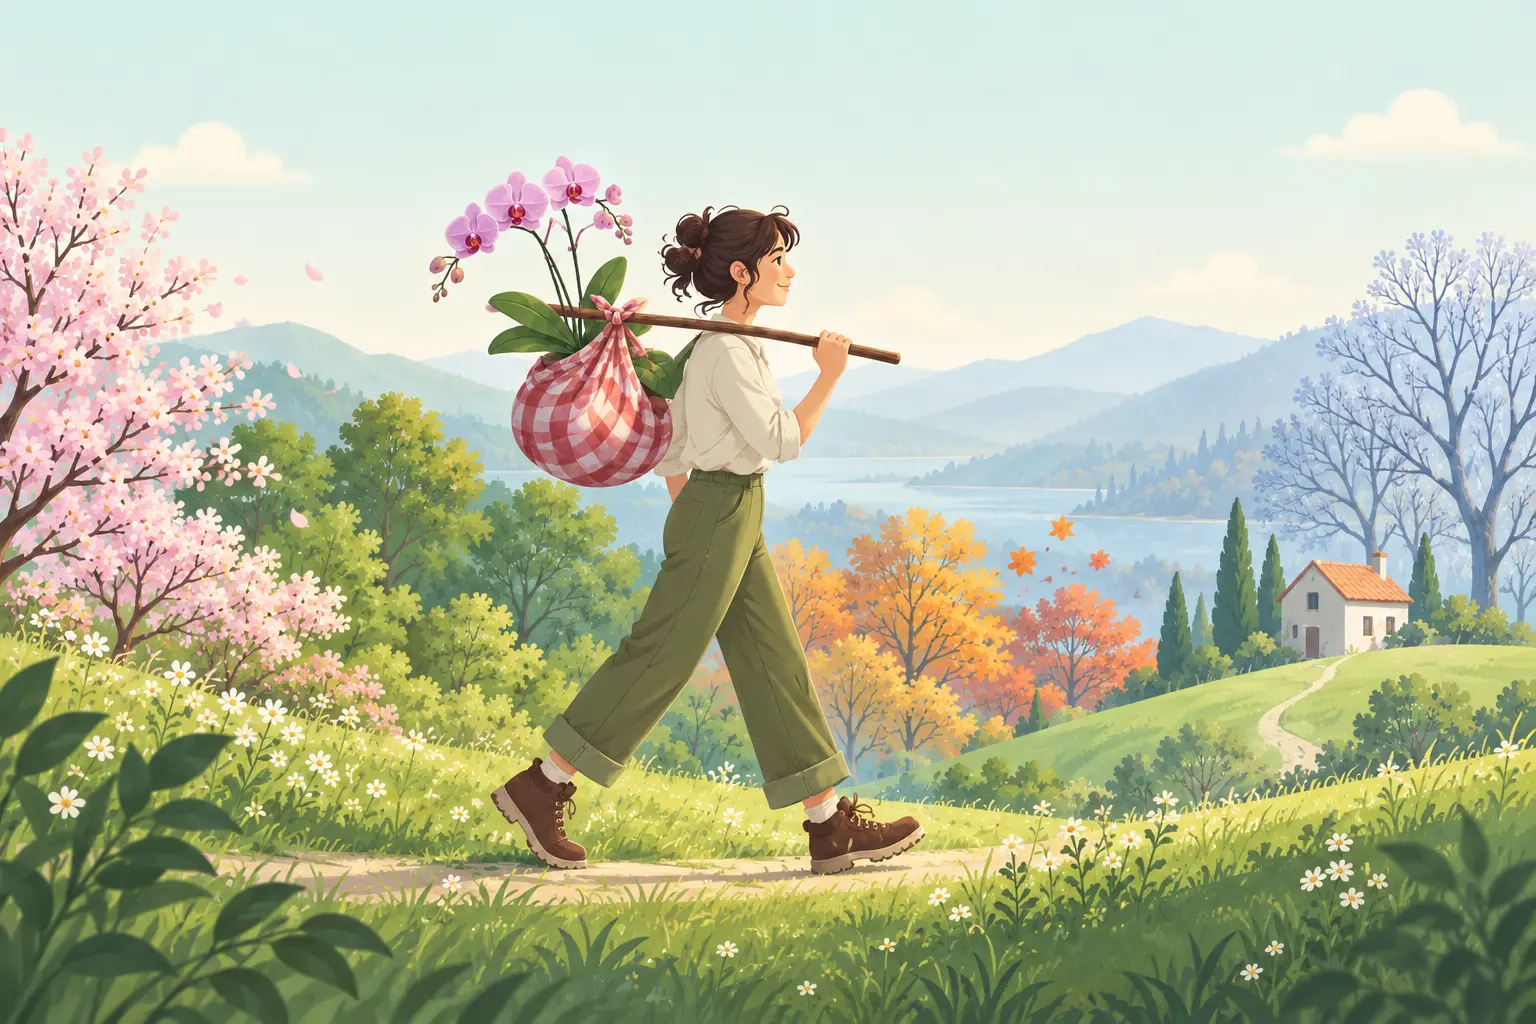
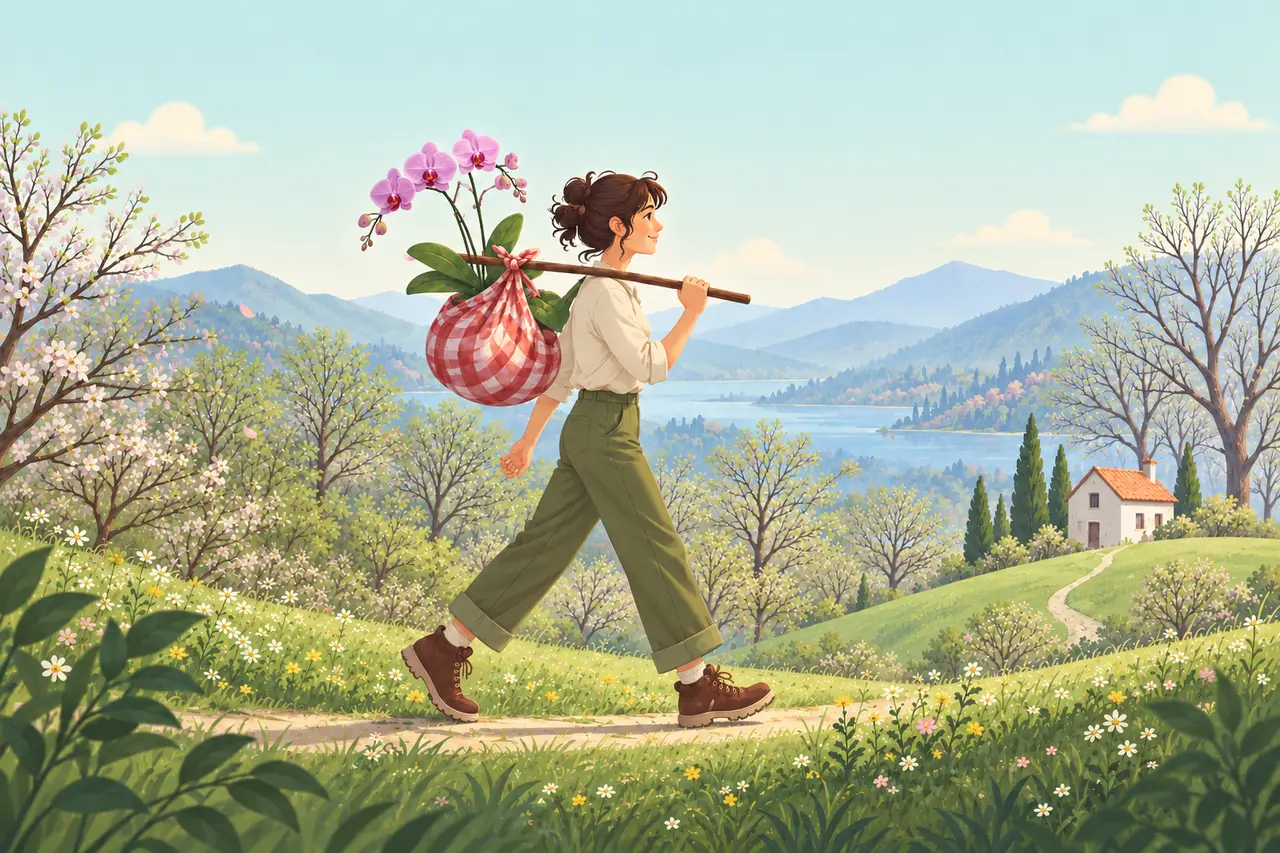
Página inicial com a jornada animada pelas quatro estações
- jornada-ciclo.webp: os 20 quadros do ciclo de caminhada (100 ms cada, 01→20 e de volta ao 01)
- jornada.webp passa a ser o quadro 01: fica por baixo enquanto a animação carrega
  e é o que aparece para quem pede menos movimento (prefers-reduced-motion)
- As duas imagens entram no cache do PWA (limite do Workbox ampliado para 4 MB)

Claude-Session: https://claude.ai/code/session_015ewYJede1TwgHKazuMKZJv

diff --git a/apps/web/src/routes/Login.tsx b/apps/web/src/routes/Login.tsx
@@ -43,13 +43,18 @@ export function Login() {
         <LoginForm onSubmit={onSubmit} busy={busy} error={error} className="mt-10 hidden max-w-sm md:block" />
       </section>
 
-      {/* Ilustração: a jornada de quem cultiva */}
-      <div className="relative -mt-4 min-h-[21rem] flex-1 md:mt-0 md:min-h-dvh">
-        <img
-          src="/jornada.webp"
-          alt=""
-          className="absolute inset-0 h-full w-full object-cover object-[50%_58%] [mask-image:linear-gradient(transparent,#000_22%)] md:[mask-image:none]"
-        />
+      {/* Ilustração: a jornada de quem cultiva, atravessando as quatro estações em 20 quadros (2 s, em loop).
+          O quadro 01 parado fica por baixo enquanto a animação carrega, e é o que aparece para quem pede menos movimento. */}
+      <div className="relative -mt-4 min-h-[21rem] flex-1 bg-[url(/jornada.webp)] bg-cover bg-[50%_58%] [mask-image:linear-gradient(transparent,#000_22%)] md:mt-0 md:min-h-dvh md:[mask-image:none]">
+        <picture>
+          <source media="(prefers-reduced-motion: reduce)" srcSet="/jornada.webp" />
+          <img
+            src="/jornada-ciclo.webp"
+            alt=""
+            decoding="async"
+            className="absolute inset-0 h-full w-full object-cover object-[50%_58%]"
+          />
+        </picture>
         <div className="absolute inset-x-0 bottom-0 h-16 bg-gradient-to-b from-transparent to-salvia md:hidden" aria-hidden="true" />
       </div>
 

diff --git a/apps/web/vite.config.ts b/apps/web/vite.config.ts
@@ -9,7 +9,7 @@ export default defineConfig({
     tailwindcss(),
     VitePWA({
       registerType: "autoUpdate",
-      includeAssets: ["icon.svg", "jornada.webp"],
+      includeAssets: ["icon.svg", "jornada.webp", "jornada-ciclo.webp"],
       manifest: {
         name: "Orchidiary",
         short_name: "Orchidiary",
@@ -26,6 +26,8 @@ export default defineConfig({
         ],
       },
       workbox: {
+        // a animação da página inicial tem ~2,7 MB; o padrão do Workbox (2 MB) a deixaria fora do cache
+        maximumFileSizeToCacheInBytes: 4 * 1024 * 1024,
         // A API nunca é cacheada pelo service worker
         navigateFallbackDenylist: [/^\/api\//],
       },
